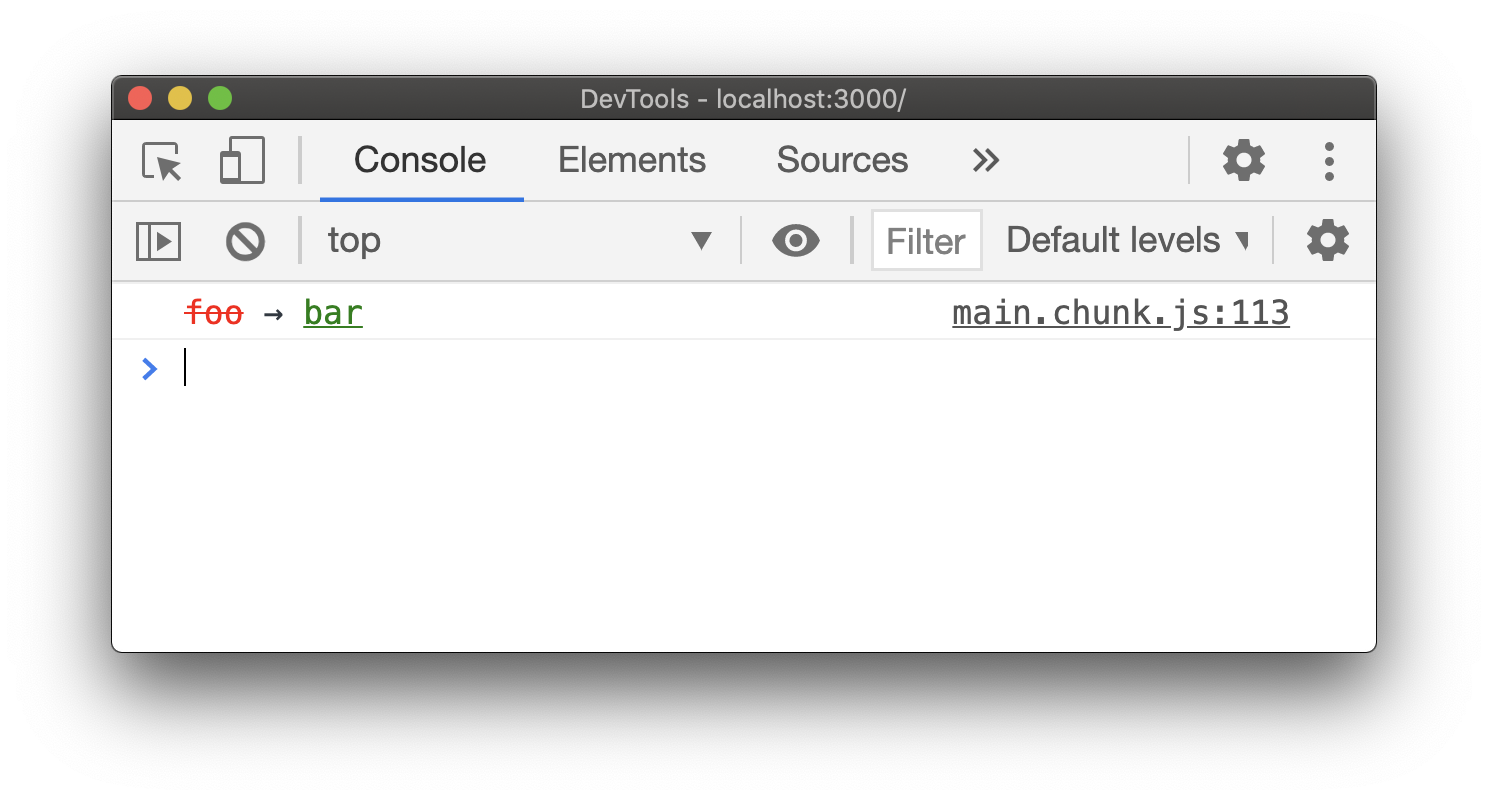
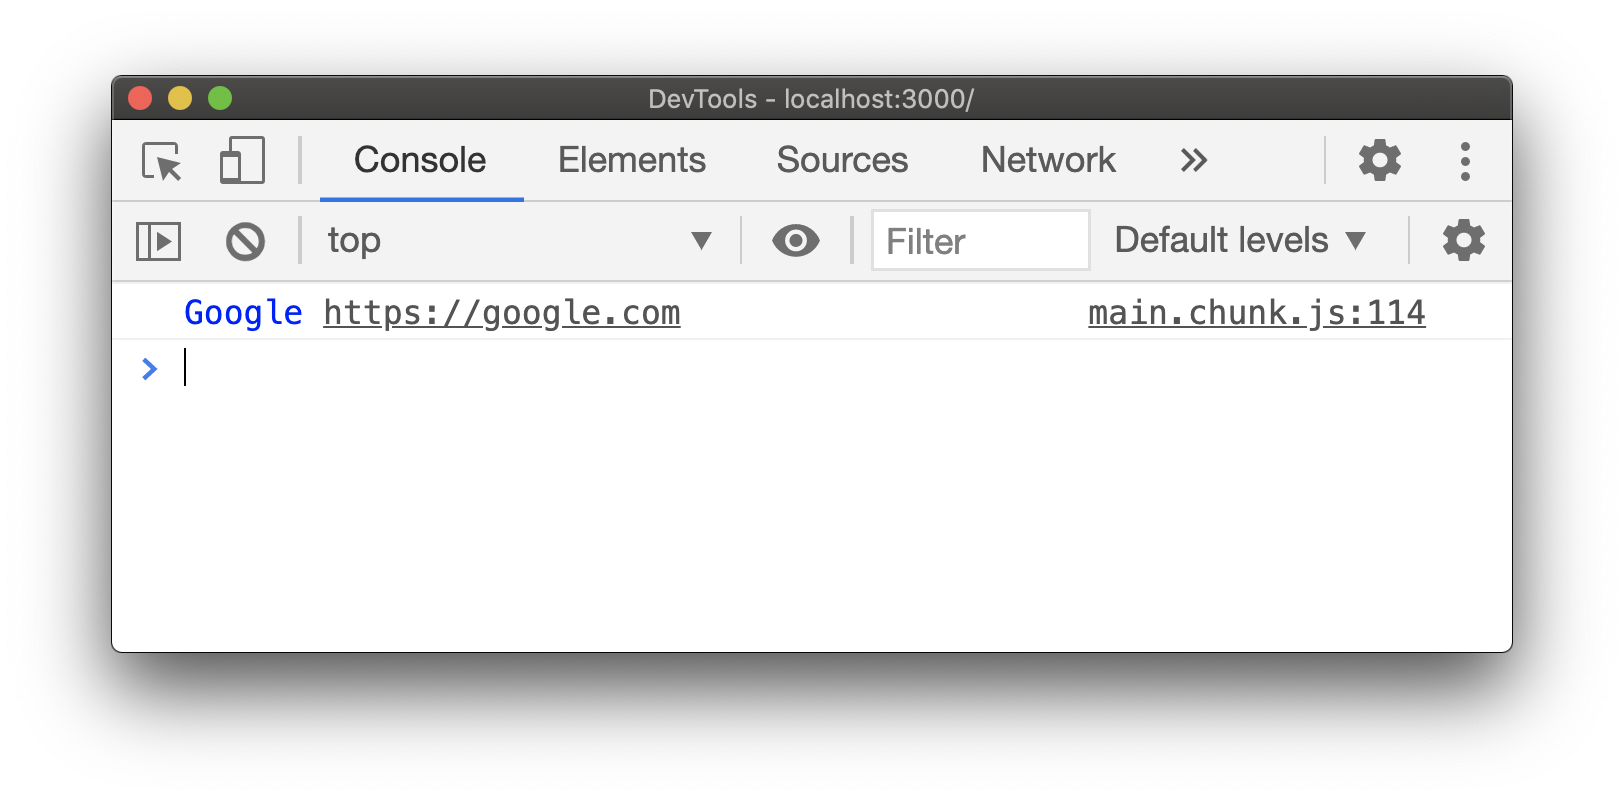
better anchors

diff --git a/index.js b/index.js
@@ -71,6 +71,7 @@ const reconciler = ReactReconciler({
   createInstance(type, props) {
     return {
       type,
+      props,
       style: Object.assign(styleForType(type), props.style),
       children: [],
     };
@@ -192,6 +193,11 @@ function recursivelyConcatenate(children, string, style, subs) {
             Object.assign({}, style, child.style),
             subs
           );
+
+          // append the href for anchor elements
+          if (child.type === "a" && child.props.href) {
+            string += " " + child.props.href;
+          }
           break;
       }
     }
@@ -208,6 +214,11 @@ function recursivelyConcatenate(children, string, style, subs) {
  */
 function styleForType(type) {
   switch (type) {
+    case "a":
+      return {
+        color: "blue",
+      };
+
     case "abbr":
       return {
         textDecoration: "underline dotted",

diff --git a/README.md b/README.md
@@ -10,12 +10,13 @@ const name = "Chris";
 const color = "#21a0a0";
 
 console.log(
-  <span>
-    Hello,
+  <div>
+    Hello,{" "}
     <strong>
       <em style={{ color }}>{name}</em>
-    </strong>!
-  </span>
+    </strong>
+    !
+  </div>
 );
 ```
 
@@ -56,11 +57,12 @@ argument is a React element.
 The methods above are just sugar for the `render` method.
 
 ```jsx
-import { render } from "react-console";
+import React from 'react';
+import console from "react-console";
 
-render(<span style={{ color: "red" }}>Ouch</span>, console, "error");
+console.render(<span>Ouch</span>, window.console, "error");
 // same as
-console.error(<span style={{ color: "red" }}>Ouch</span>);
+console.error(<span>Ouch</span>);
 ```
 
 ### Host Components
@@ -82,6 +84,20 @@ console.error(<span style={{ color: "red" }}>Ouch</span>);
 * `<u>`
 * `<var>`
 * `<wbr>`
+
+#### Anchors
+
+Anchor elements will have their hrefs appended.
+
+```js
+import React from "react";
+import console from "react-console";
+
+console.log(<a href="https://google.com">Google</a>);
+```
+
+![](support/screenshot-2.png)
+
 
 ### User Components
 
@@ -105,4 +121,4 @@ function Diff(props) {
 console.log(<Diff previous="foo" next="bar" />);
 ```
 
-![](support/screenshot-2.png)
+![](support/screenshot-3.png)
